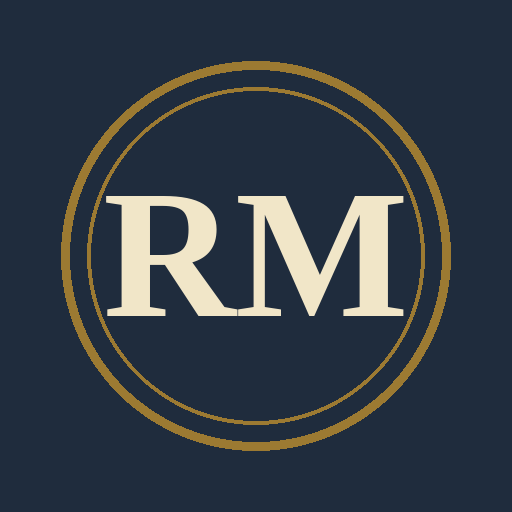
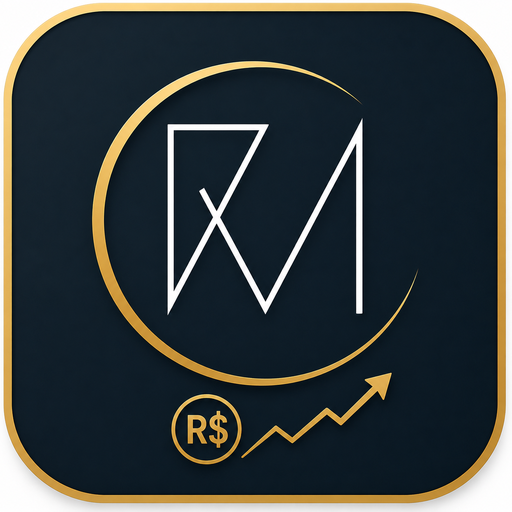
Add files via upload

diff --git a/index.html b/index.html
@@ -194,11 +194,11 @@ const BANCOS = {
 };
 const DONOS = { Bruno: { label: "Dr. Bruno" }, "Flávio": { label: "Dr. Flávio" } };
 
-function computeSplit({ valorTotal, percentualExito, dono, sucumbencial, valorAdministrativo }) {
+function computeSplit({ valorTotal, percentualExito, dono, sucumbencial, valorAdministrativo, valorGastos }) {
   const total = Number(valorTotal) || 0;
   const donoIsBruno = dono === "Bruno";
   if (sucumbencial) {
-    return { escritorio: 0, cliente: 0, flavio: donoIsBruno ? 0 : total, bruno: donoIsBruno ? total : 0, honorarioTotal: total, baseDivisivel: 0, excedente: total, administrativoAplicado: 0 };
+    return { escritorio: 0, cliente: 0, flavio: donoIsBruno ? 0 : total, bruno: donoIsBruno ? total : 0, honorarioTotal: total, baseDivisivel: 0, excedente: total, administrativoAplicado: 0, gastosAplicado: 0 };
   }
   const pct = (Number(percentualExito) || 0) / 100;
   const honorarioTotal = total * pct;
@@ -210,17 +210,25 @@ function computeSplit({ valorTotal, percentualExito, dono, sucumbencial, valorAd
 
   // Valor administrativo: sai do que sobraria para o cliente e vai integralmente
   // para o escritório (cliente do Bruno) ou para o Dr. Flávio (cliente dele).
-  const restanteParaCliente = Math.max(0, total - honorarioTotal);
-  const administrativoAplicado = Math.min(Math.max(0, Number(valorAdministrativo) || 0), restanteParaCliente);
+  let restante = Math.max(0, total - honorarioTotal);
+  const administrativoAplicado = Math.min(Math.max(0, Number(valorAdministrativo) || 0), restante);
   if (donoIsBruno) escritorio += administrativoAplicado;
   else donoShare += administrativoAplicado;
+  restante -= administrativoAplicado;
 
-  const clienteValor = Math.max(0, total - honorarioTotal - administrativoAplicado);
+  // Gastos reembolsáveis: dinheiro que o escritório já adiantou pelo cliente.
+  // Sai do que sobraria para o cliente e volta integralmente para o escritório,
+  // independentemente de quem é o dono do cliente.
+  const gastosAplicado = Math.min(Math.max(0, Number(valorGastos) || 0), restante);
+  escritorio += gastosAplicado;
+  restante -= gastosAplicado;
+
+  const clienteValor = restante;
   return {
     escritorio, cliente: clienteValor,
     flavio: donoIsBruno ? outroShare : donoShare,
     bruno: donoIsBruno ? donoShare : outroShare,
-    honorarioTotal, baseDivisivel, excedente, administrativoAplicado,
+    honorarioTotal, baseDivisivel, excedente, administrativoAplicado, gastosAplicado,
   };
 }
 function administrativoDestino(dono) { return dono === "Flávio" ? "Dr. Flávio (integral)" : "Escritório (integral)"; }
@@ -231,17 +239,19 @@ const EMPTY_FORM = {
 };
 const EMPTY_CLIENT_FORM = {
   dataCadastro: todayISO(), nome: "", cpf: "", numeroBeneficio: "", processo: "", valorEstimado: "",
-  dono: "Bruno", percentualExito: "30", valorAdministrativo: "", temSucumbencia: false, valorSucumbencial: "", obs: "",
+  dono: "Bruno", percentualExito: "30", valorAdministrativo: "", gastosReembolsaveis: "", temSucumbencia: false, valorSucumbencial: "", obs: "",
 };
 
 // ---------- Small UI atoms ----------
 function LogoMark({ size = 40 }) {
   return (
-    <svg width={size} height={size} viewBox="0 0 64 64" style={{ flexShrink: 0 }}>
-      <circle cx="32" cy="32" r="30" fill="none" stroke={C.brass} strokeWidth="1.5" />
-      <circle cx="32" cy="32" r="26" fill="none" stroke={C.brass} strokeWidth="0.75" opacity="0.6" />
-      <text x="32" y="40" textAnchor="middle" style={{ fontFamily: FONT_SERIF, fontSize: "22px", fontWeight: 700, fill: C.brassSoft }}>RM</text>
-    </svg>
+    <img
+      src="./logo-mark.png"
+      alt="Rezende Maia Advocacia"
+      width={size}
+      height={size}
+      style={{ flexShrink: 0, width: size, height: size, borderRadius: "50%", objectFit: "contain" }}
+    />
   );
 }
 function BankBadge({ banco }) {
@@ -390,9 +400,9 @@ function LoginScreen() {
 }
 
 // ---------- Fee breakdown preview ----------
-function FeeBreakdown({ dono, percentualExito, valorEstimado, valorAdministrativo }) {
+function FeeBreakdown({ dono, percentualExito, valorEstimado, valorAdministrativo, valorGastos }) {
   const valor = parseNum(valorEstimado);
-  const split = computeSplit({ valorTotal: valor, percentualExito, dono, sucumbencial: false, valorAdministrativo });
+  const split = computeSplit({ valorTotal: valor, percentualExito, dono, sucumbencial: false, valorAdministrativo, valorGastos });
   const donoLabel = dono === "Flávio" ? "Dr. Flávio" : "Dr. Bruno";
   const outroLabel = dono === "Flávio" ? "Dr. Bruno" : "Dr. Flávio";
   const donoTotal = dono === "Flávio" ? split.flavio : split.bruno;
@@ -414,9 +424,18 @@ function FeeBreakdown({ dono, percentualExito, valorEstimado, valorAdministrativ
           <BreakdownRow label={`${donoLabel}, dono do cliente (50% + excedente)`} value={donoTotal} bold />
           <BreakdownRow label={`${outroLabel}, outro sócio (10% do divisível)`} value={outroTotal} bold />
           <BreakdownRow label="Cliente recebe" value={split.cliente} />
-          {split.administrativoAplicado > 0 && (
-            <div style={{ fontFamily: FONT_SANS, fontSize: 11.5, color: "#B7C2CE", marginTop: 6, lineHeight: 1.5 }}>
-              Já inclui {formatBRL(split.administrativoAplicado)} de valor administrativo, descontado do cliente e somado {donoIsBrunoLocal ? "ao escritório" : `a ${donoLabel}`} acima.
+          {(split.administrativoAplicado > 0 || split.gastosAplicado > 0) && (
+            <div style={{ marginTop: 6 }}>
+              {split.administrativoAplicado > 0 && (
+                <div style={{ fontFamily: FONT_SANS, fontSize: 11.5, color: "#B7C2CE", lineHeight: 1.5 }}>
+                  Já inclui {formatBRL(split.administrativoAplicado)} de valor administrativo, descontado do cliente e somado {donoIsBrunoLocal ? "ao escritório" : `a ${donoLabel}`} acima.
+                </div>
+              )}
+              {split.gastosAplicado > 0 && (
+                <div style={{ fontFamily: FONT_SANS, fontSize: 11.5, color: "#B7C2CE", lineHeight: 1.5, marginTop: split.administrativoAplicado > 0 ? 4 : 0 }}>
+                  Já inclui {formatBRL(split.gastosAplicado)} de gastos reembolsáveis, descontados do cliente e somados ao escritório acima.
+                </div>
+              )}
             </div>
           )}
         </React.Fragment>
@@ -510,6 +529,15 @@ function ClientesTab({ clientes, clientForm, setClientForm, onSubmit, editingCli
             <Icon name="info" size={13} color={C.inkSoft} />
             <span style={{ fontFamily: FONT_SANS, fontSize: 11.5, color: C.inkSoft }}>Administrativo do Dr. Flávio vai 100% para ele. Administrativo de cliente do Dr. Bruno vai 100% para o escritório.</span>
           </div>
+
+          <Field label="Gastos reembolsáveis">
+            <MoneyInput value={clientForm.gastosReembolsaveis} onChange={(e) => set("gastosReembolsaveis", e.target.value)} />
+          </Field>
+          <div style={{ display: "flex", alignItems: "flex-start", gap: 8, padding: "8px 12px", borderRadius: 8, backgroundColor: C.parchmentDark, marginBottom: 12 }}>
+            <Icon name="info" size={13} color={C.inkSoft} />
+            <span style={{ fontFamily: FONT_SANS, fontSize: 11.5, color: C.inkSoft }}>Gastos que o escritório adiantou pelo cliente (perícia, deslocamento, etc.). Ao sair o RPV/precatório, esse valor é descontado do cliente e volta integralmente para o escritório.</span>
+          </div>
+
           <label style={{ display: "flex", alignItems: "center", gap: 8, marginBottom: 4, cursor: "pointer" }}>
             <input type="checkbox" checked={clientForm.temSucumbencia} onChange={(e) => set("temSucumbencia", e.target.checked)} style={{ width: 16, height: 16, accentColor: C.brass }} />
             <span style={{ fontFamily: FONT_SANS, fontSize: 13, color: C.ink }}>Possui honorários sucumbenciais</span>
@@ -524,7 +552,7 @@ function ClientesTab({ clientes, clientForm, setClientForm, onSubmit, editingCli
         </div>
 
         <div style={{ marginBottom: 14 }}>
-          <FeeBreakdown dono={clientForm.dono} percentualExito={clientForm.percentualExito} valorEstimado={clientForm.valorEstimado} valorAdministrativo={clientForm.valorAdministrativo} />
+          <FeeBreakdown dono={clientForm.dono} percentualExito={clientForm.percentualExito} valorEstimado={clientForm.valorEstimado} valorAdministrativo={clientForm.valorAdministrativo} valorGastos={clientForm.gastosReembolsaveis} />
         </div>
 
         {clientForm.temSucumbencia && (
@@ -587,9 +615,10 @@ function ClientCard({ cliente, onEdit, confirmingDelete, onAskDelete, onCancelDe
           {cliente.numeroBeneficio && <div style={{ marginTop: 12, fontFamily: FONT_SANS, fontSize: 12.5, color: C.inkSoft }}>NB: <strong style={{ color: C.ink }}>{cliente.numeroBeneficio}</strong></div>}
           {cliente.processo && <div style={{ marginTop: 4, fontFamily: FONT_SANS, fontSize: 12.5, color: C.inkSoft }}>Processo: <strong style={{ color: C.ink, fontFamily: FONT_MONO }}>{cliente.processo}</strong></div>}
           {cliente.valorAdministrativo > 0 && <div style={{ marginTop: 4, fontFamily: FONT_SANS, fontSize: 12.5, color: C.inkSoft }}>Administrativo: <strong style={{ color: C.ink }}>{formatBRL(cliente.valorAdministrativo)}</strong> · {administrativoDestino(cliente.dono)}</div>}
+          {cliente.gastosReembolsaveis > 0 && <div style={{ marginTop: 4, fontFamily: FONT_SANS, fontSize: 12.5, color: C.inkSoft }}>Gastos reembolsáveis: <strong style={{ color: C.ink }}>{formatBRL(cliente.gastosReembolsaveis)}</strong> · voltam para o escritório</div>}
           {cliente.obs && <div style={{ marginTop: 4, fontFamily: FONT_SANS, fontSize: 12.5, color: C.inkSoft, fontStyle: "italic" }}>“{cliente.obs}”</div>}
           <div style={{ marginTop: 12 }}>
-            <FeeBreakdown dono={cliente.dono} percentualExito={cliente.percentualExito} valorEstimado={cliente.valorEstimado} valorAdministrativo={cliente.valorAdministrativo} />
+            <FeeBreakdown dono={cliente.dono} percentualExito={cliente.percentualExito} valorEstimado={cliente.valorEstimado} valorAdministrativo={cliente.valorAdministrativo} valorGastos={cliente.gastosReembolsaveis} />
           </div>
           {cliente.temSucumbencia && (
             <div style={{ marginTop: 10 }}>
@@ -629,6 +658,11 @@ function AutoRateioPreview({ split }) {
           Inclui {formatBRL(split.administrativoAplicado)} de valor administrativo, descontado do cliente.
         </div>
       )}
+      {split.gastosAplicado > 0 && (
+        <div style={{ fontFamily: FONT_SANS, fontSize: 11, color: C.inkSoft, marginTop: 4 }}>
+          Inclui {formatBRL(split.gastosAplicado)} de gastos reembolsáveis, descontados do cliente.
+        </div>
+      )}
     </div>
   );
 }
@@ -638,7 +672,7 @@ function FormTab({ form, setForm, onSubmit, editingId, onCancelEdit, photoDataUr
   const [showDetails, setShowDetails] = useState(false);
   function set(field, value) { setForm((f) => ({ ...f, [field]: value })); }
   const linkedClient = clientes.find((c) => c.id === form.clienteId) || null;
-  const autoSplit = linkedClient && !rateioManual ? computeSplit({ valorTotal: parseNum(form.valorTotal), percentualExito: linkedClient.percentualExito, dono: linkedClient.dono, sucumbencial: form.sucumbencial, valorAdministrativo: linkedClient.valorAdministrativo }) : null;
+  const autoSplit = linkedClient && !rateioManual ? computeSplit({ valorTotal: parseNum(form.valorTotal), percentualExito: linkedClient.percentualExito, dono: linkedClient.dono, sucumbencial: form.sucumbencial, valorAdministrativo: linkedClient.valorAdministrativo, valorGastos: linkedClient.gastosReembolsaveis }) : null;
   const somaManual = parseNum(form.valorEscritorio) + parseNum(form.valorCliente) + parseNum(form.valorFlavio) + parseNum(form.valorBruno);
   const diffManual = Math.round((parseNum(form.valorTotal) - somaManual) * 100) / 100;
   const showDiffWarning = !autoSplit && form.valorTotal && Math.abs(diffManual) > 0.01;
@@ -1318,7 +1352,7 @@ function RPVLedgerApp() {
 
     let valores;
     if (linkedClient && !rateioManual) {
-      const split = computeSplit({ valorTotal: parseNum(form.valorTotal), percentualExito: linkedClient.percentualExito, dono: linkedClient.dono, sucumbencial: form.sucumbencial, valorAdministrativo: linkedClient.valorAdministrativo });
+      const split = computeSplit({ valorTotal: parseNum(form.valorTotal), percentualExito: linkedClient.percentualExito, dono: linkedClient.dono, sucumbencial: form.sucumbencial, valorAdministrativo: linkedClient.valorAdministrativo, valorGastos: linkedClient.gastosReembolsaveis });
       valores = { valorEscritorio: split.escritorio, valorCliente: split.cliente, valorFlavio: split.flavio, valorBruno: split.bruno };
     } else {
       valores = { valorEscritorio: parseNum(form.valorEscritorio), valorCliente: parseNum(form.valorCliente), valorFlavio: parseNum(form.valorFlavio), valorBruno: parseNum(form.valorBruno) };
@@ -1397,6 +1431,7 @@ function RPVLedgerApp() {
       valorEstimado: cliente.valorEstimado ? String(cliente.valorEstimado) : "", dono: cliente.dono,
       percentualExito: cliente.percentualExito ? String(cliente.percentualExito) : "30",
       valorAdministrativo: cliente.valorAdministrativo ? String(cliente.valorAdministrativo) : "",
+      gastosReembolsaveis: cliente.gastosReembolsaveis ? String(cliente.gastosReembolsaveis) : "",
       temSucumbencia: !!cliente.temSucumbencia, valorSucumbencial: cliente.valorSucumbencial ? String(cliente.valorSucumbencial) : "", obs: cliente.obs || "",
     });
   }
@@ -1413,7 +1448,7 @@ function RPVLedgerApp() {
       id, dataCadastro: clientForm.dataCadastro || todayISO(), nome: clientForm.nome.trim(), cpf: clientForm.cpf.trim(),
       numeroBeneficio: clientForm.numeroBeneficio.trim(), processo: clientForm.processo.trim(),
       valorEstimado: parseNum(clientForm.valorEstimado), dono: clientForm.dono, percentualExito: parseNum(clientForm.percentualExito),
-      valorAdministrativo: parseNum(clientForm.valorAdministrativo), temSucumbencia: !!clientForm.temSucumbencia,
+      valorAdministrativo: parseNum(clientForm.valorAdministrativo), gastosReembolsaveis: parseNum(clientForm.gastosReembolsaveis), temSucumbencia: !!clientForm.temSucumbencia,
       valorSucumbencial: parseNum(clientForm.valorSucumbencial), obs: clientForm.obs.trim(),
       criadoEm: base ? base.criadoEm : Date.now(), editadoEm: Date.now(),
     };

diff --git a/sw.js b/sw.js
@@ -1,5 +1,5 @@
-const CACHE_NAME = "rpv-shell-v2";
-const SHELL_ASSETS = ["./manifest.json", "./icon-192.png", "./icon-512.png", "./apple-touch-icon.png"];
+const CACHE_NAME = "rpv-shell-v3";
+const SHELL_ASSETS = ["./manifest.json", "./icon-192.png", "./icon-512.png", "./apple-touch-icon.png", "./logo-mark.png"];
 
 self.addEventListener("install", (event) => {
   event.waitUntil(
